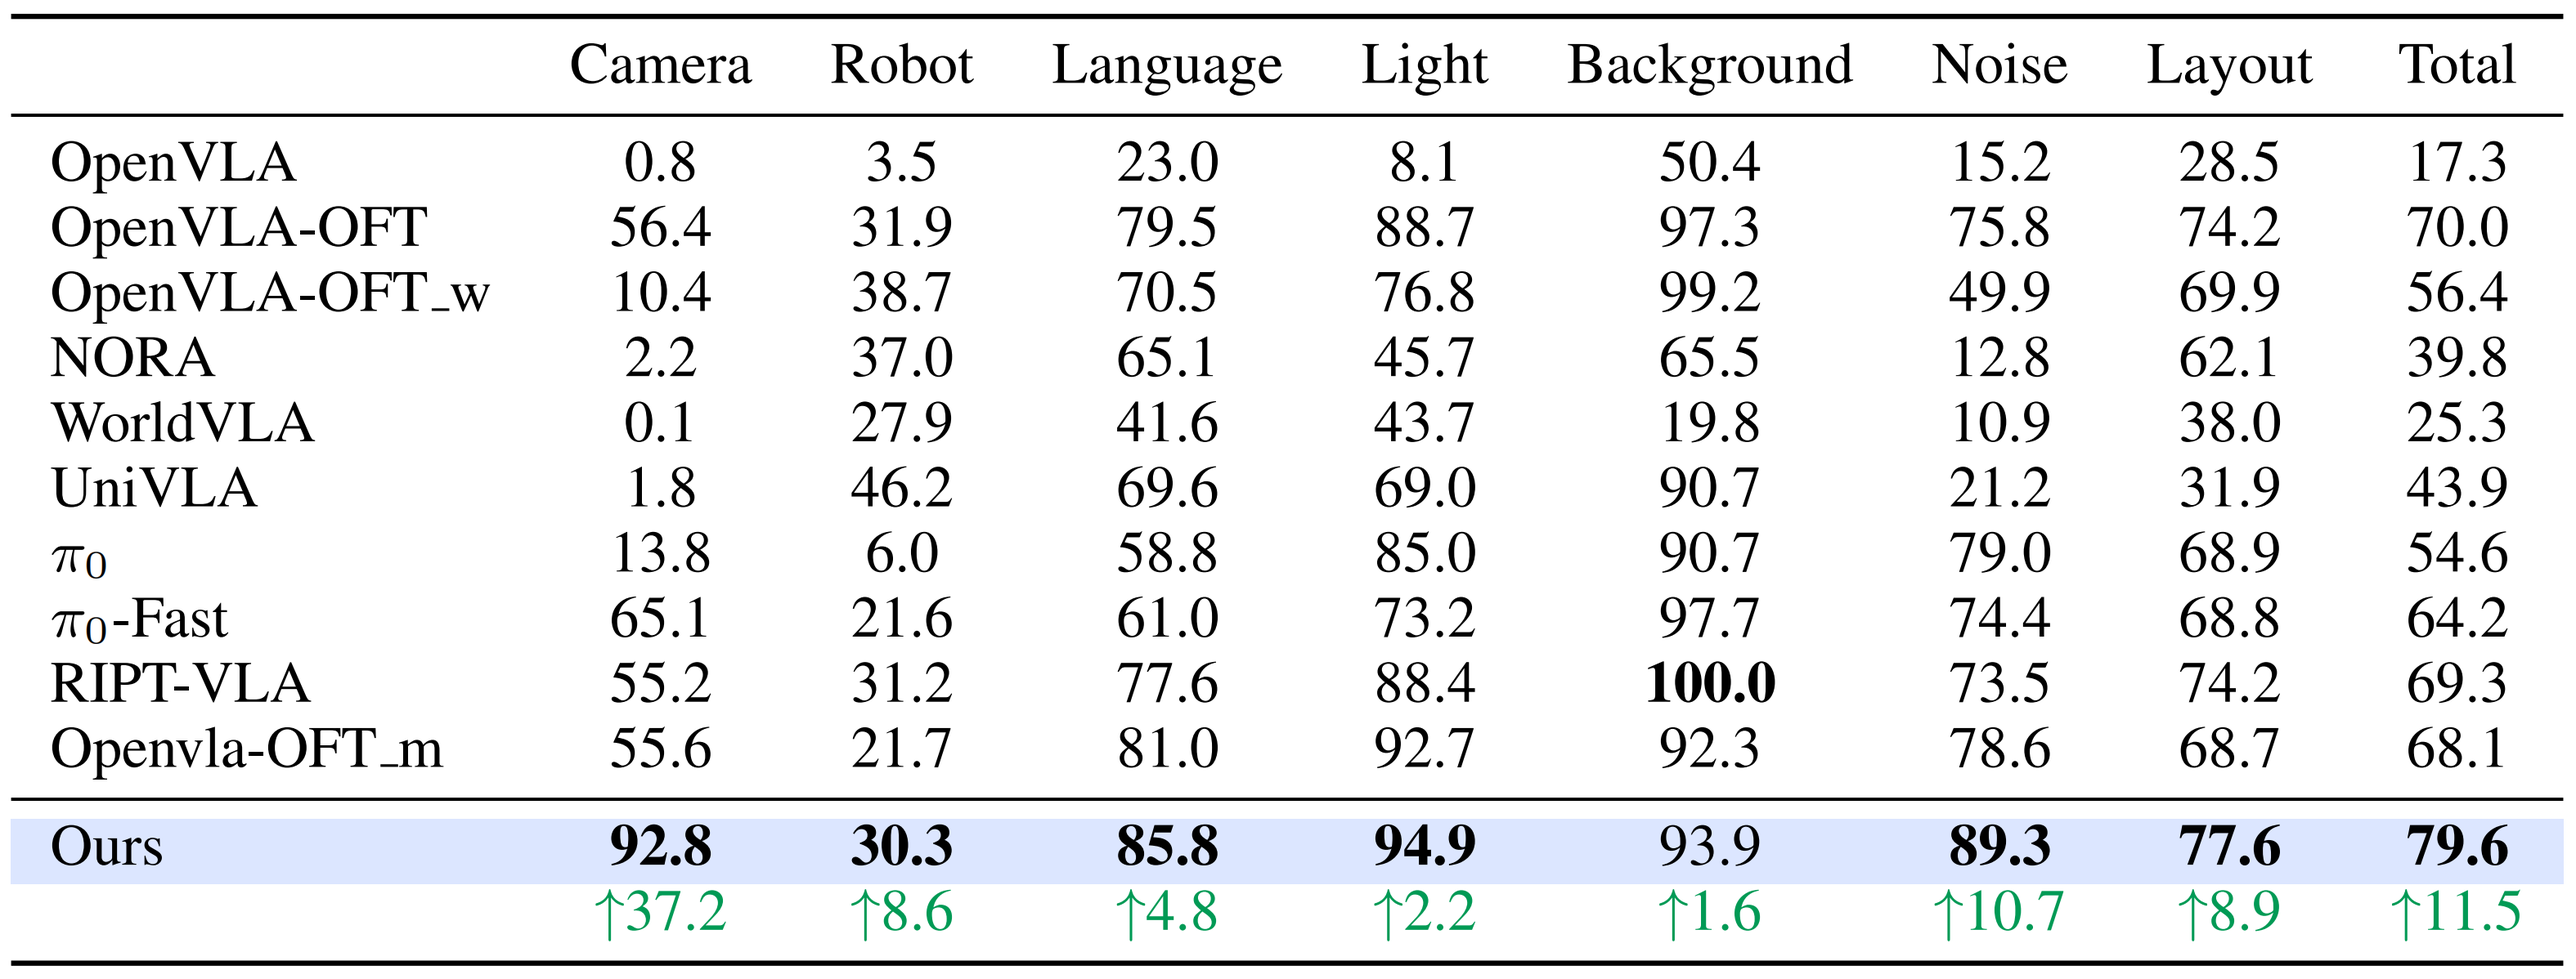
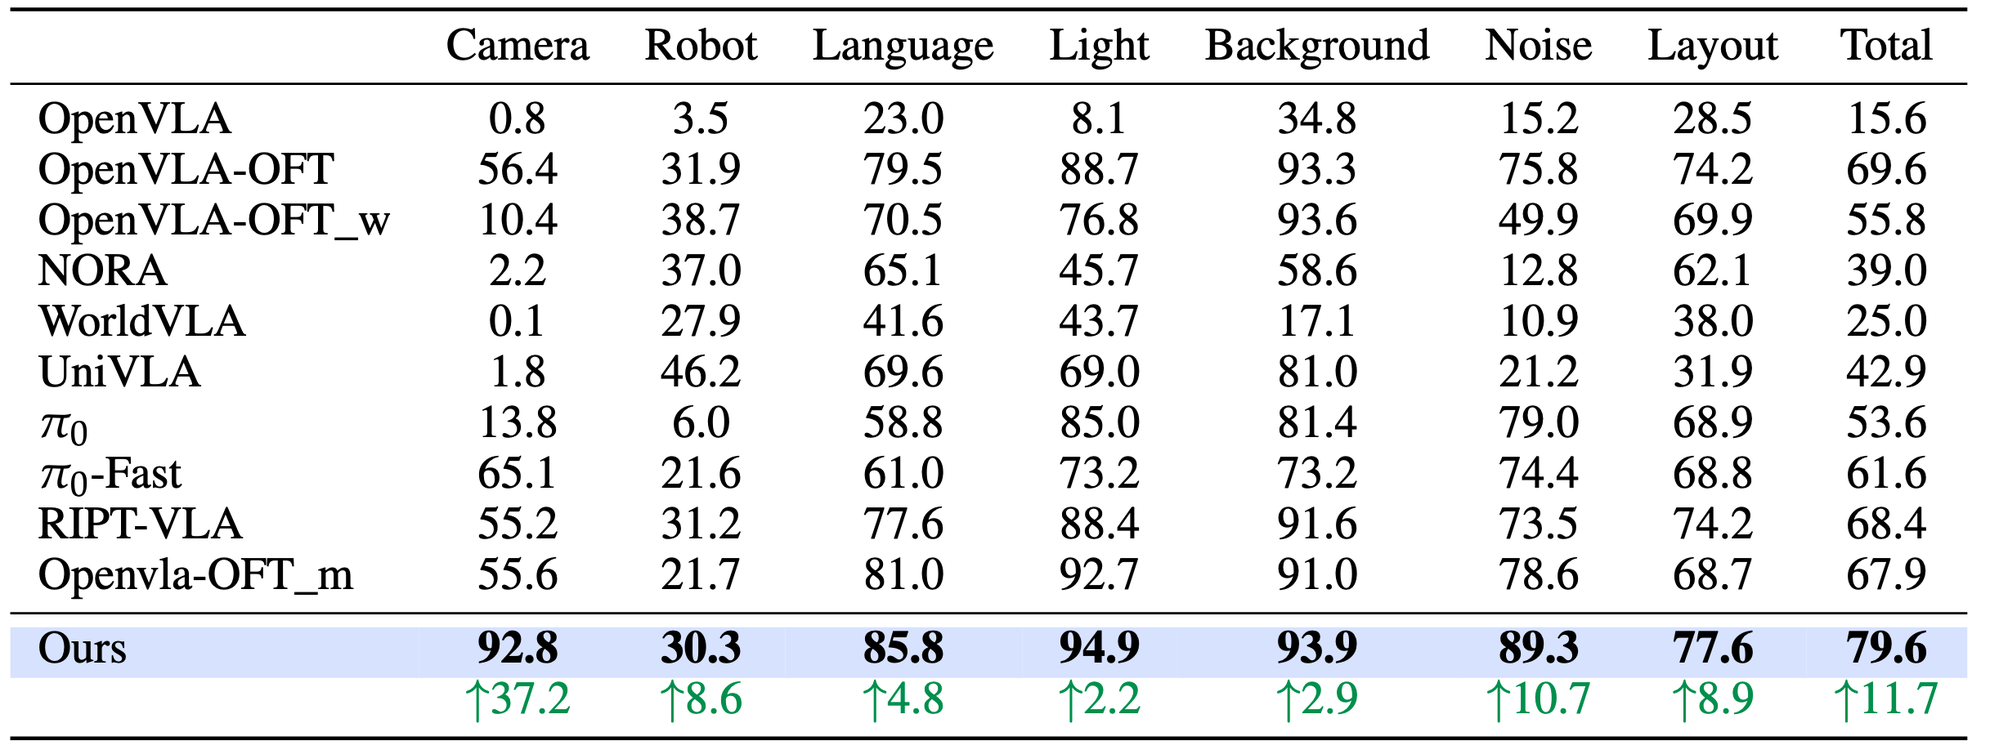
update md

diff --git a/README.md b/README.md
@@ -90,17 +90,17 @@ The evaluation method is almost identical to `LIBERO`. The only required modific
 ## 📊 LIBERO-Plus Benchmark Leaderboard
 | Model | Camera | Robot | Language | Light | Background | Noise | Layout | Total |
 |-------|--------|-------|----------|-------|------------|-------|--------|-------|
-| [OpenVLA](https://github.com/openvla/openvla) | 0.8 | 3.5 | 23.0 | 8.1 | 50.4 | 15.2 | 28.5 | 17.3 |
-| [OpenVLA-OFT](https://github.com/moojink/openvla-oft) | 56.4 | 31.9 | 79.5 | 88.7 | 97.3 | 75.8 | 74.2 | 70.0 |
-| [OpenVLA-OFT_w](https://github.com/moojink/openvla-oft) | 10.4 | 38.7 | 70.5 | 76.8 | 99.2 | 49.9 | 69.9 | 56.4 |
-| [NORA](https://github.com/declare-lab/nora) | 2.2 | 37.0 | 65.1 | 45.7 | 65.5 | 12.8 | 62.1 | 39.8 |
-| [WorldVLA](https://github.com/alibaba-damo-academy/WorldVLA) | 0.1 | 27.9 | 41.6 | 43.7 | 19.8 | 10.9 | 38.0 | 25.3 |
-| [UniVLA](https://github.com/OpenDriveLab/UniVLA) | 1.8 | 46.2 | 69.6 | 69.0 | 90.7 | 21.2 | 31.9 | 43.9 |
-| [π₀](https://github.com/Physical-Intelligence/openpi) | 13.8 | 6.0 | 58.8 | 85.0 | 90.7 | 79.0 | 68.9 | 54.6 |
-| [π₀-Fast](https://github.com/Physical-Intelligence/openpi) | 65.1 | 21.6 | 61.0 | 73.2 | 97.7 | 74.4 | 68.8 | 64.2 |
-| [RIPT-VLA](https://github.com/Ariostgx/ript-vla) | 55.2 | 31.2 | 77.6 | 88.4 | **100.0** | 73.5 | 74.2 | 69.3 |
-| [OpenVLA-OFT_m](https://github.com/moojink/openvla-oft) | 55.6 | 21.7 | 81.0 | 92.7 | 92.3 | 78.6 | 68.7 | 68.1 |
-| **[OpenVLA-OFT+ (Ours)](https://github.com/moojink/openvla-oft)** | **92.8** | **30.3** | **85.8** | **94.9** | 93.9 | **89.3** | **77.6** | **79.6** |
+| [OpenVLA](https://github.com/openvla/openvla) | 0.8 | 3.5 | 23.0 | 8.1 | 34.8 | 15.2 | 28.5 | 17.3 |
+| [OpenVLA-OFT](https://github.com/moojink/openvla-oft) | 56.4 | 31.9 | 79.5 | 88.7 | 93.3 | 75.8 | 74.2 | 70.0 |
+| [OpenVLA-OFT_w](https://github.com/moojink/openvla-oft) | 10.4 | 38.7 | 70.5 | 76.8 | 93.6 | 49.9 | 69.9 | 56.4 |
+| [NORA](https://github.com/declare-lab/nora) | 2.2 | 37.0 | 65.1 | 45.7 | 58.6 | 12.8 | 62.1 | 39.8 |
+| [WorldVLA](https://github.com/alibaba-damo-academy/WorldVLA) | 0.1 | 27.9 | 41.6 | 43.7 | 17.1 | 10.9 | 38.0 | 25.3 |
+| [UniVLA](https://github.com/OpenDriveLab/UniVLA) | 1.8 | 46.2 | 69.6 | 69.0 | 81.0 | 21.2 | 31.9 | 43.9 |
+| [π₀](https://github.com/Physical-Intelligence/openpi) | 13.8 | 6.0 | 58.8 | 85.0 | 81.4 | 79.0 | 68.9 | 54.6 |
+| [π₀-Fast](https://github.com/Physical-Intelligence/openpi) | 65.1 | 21.6 | 61.0 | 73.2 | 73.2 | 74.4 | 68.8 | 64.2 |
+| [RIPT-VLA](https://github.com/Ariostgx/ript-vla) | 55.2 | 31.2 | 77.6 | 88.4 | 91.6 | 73.5 | 74.2 | 69.3 |
+| [OpenVLA-OFT_m](https://github.com/moojink/openvla-oft) | 55.6 | 21.7 | 81.0 | 92.7 | 91.0 | 78.6 | 68.7 | 68.1 |
+| **[OpenVLA-OFT+ (Ours)](https://github.com/moojink/openvla-oft)** | **92.8** | **30.3** | **85.8** | **94.9** | **93.9** | **89.3** | **77.6** | **79.6** |
 
 - **OpenVLA-OFT+** shows the performance of [OpenVLA-OFT with a mix-sft on LIBERO-plus dataset](https://huggingface.co/Sylvest/openvla-7b-oft-finetuned-libero-plus-mixdata/tree/main).
 - **OpenVLA-OFT_w** shows the performance of [OpenVLA-OFT without wrist observation input](https://huggingface.co/Sylvest/openvla-7b-oft-finetuned-libero-without-wrist).
